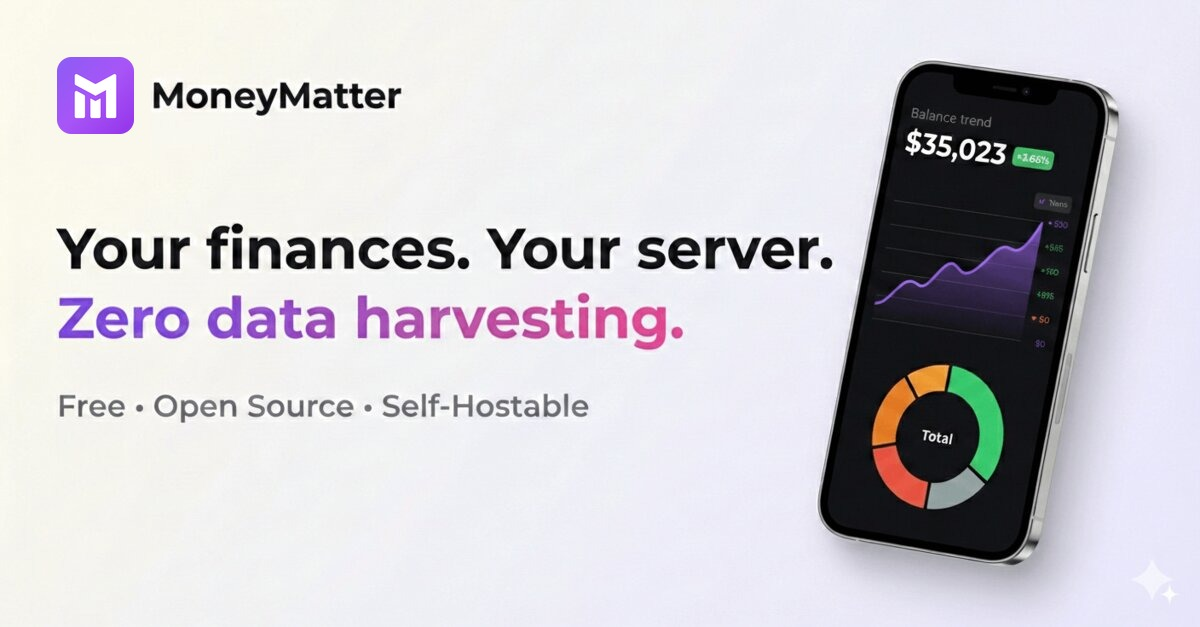
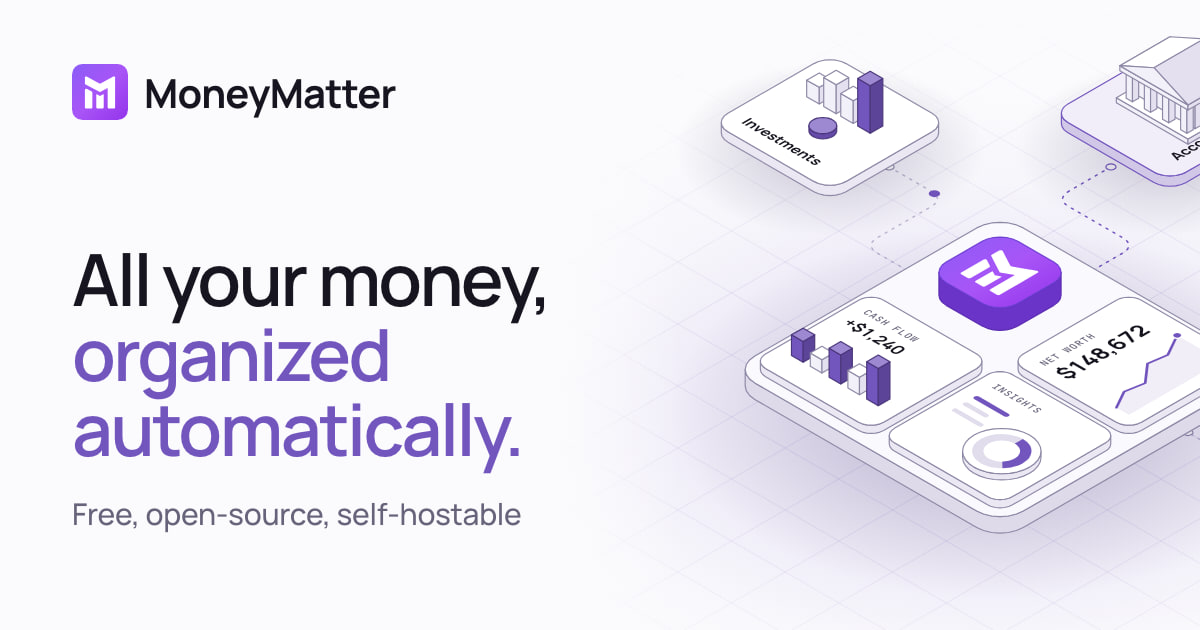
feat: redesign the social preview image and fix the app's og:image URL

diff --git a/packages/frontend/index.html b/packages/frontend/index.html
@@ -29,7 +29,7 @@
       property="og:description"
       content="Track expenses, connect your banks, set budgets, and own your data. MoneyMatter is the open-source personal finance app that puts you in charge."
     />
-    <meta property="og:image" content="https://moneymatter.app/og-image.jpg" />
+    <meta property="og:image" content="https://moneymatter.app/img/og-image.jpg" />
     <meta property="og:site_name" content="MoneyMatter" />
 
     <!-- Twitter -->
@@ -40,7 +40,7 @@
       property="twitter:description"
       content="Track expenses, connect your banks, set budgets, and own your data. MoneyMatter is the open-source personal finance app that puts you in charge."
     />
-    <meta property="twitter:image" content="https://moneymatter.app/og-image.jpg" />
+    <meta property="twitter:image" content="https://moneymatter.app/img/og-image.jpg" />
 
     <!-- Additional SEO -->
     <meta name="theme-color" content="#7355be" />
